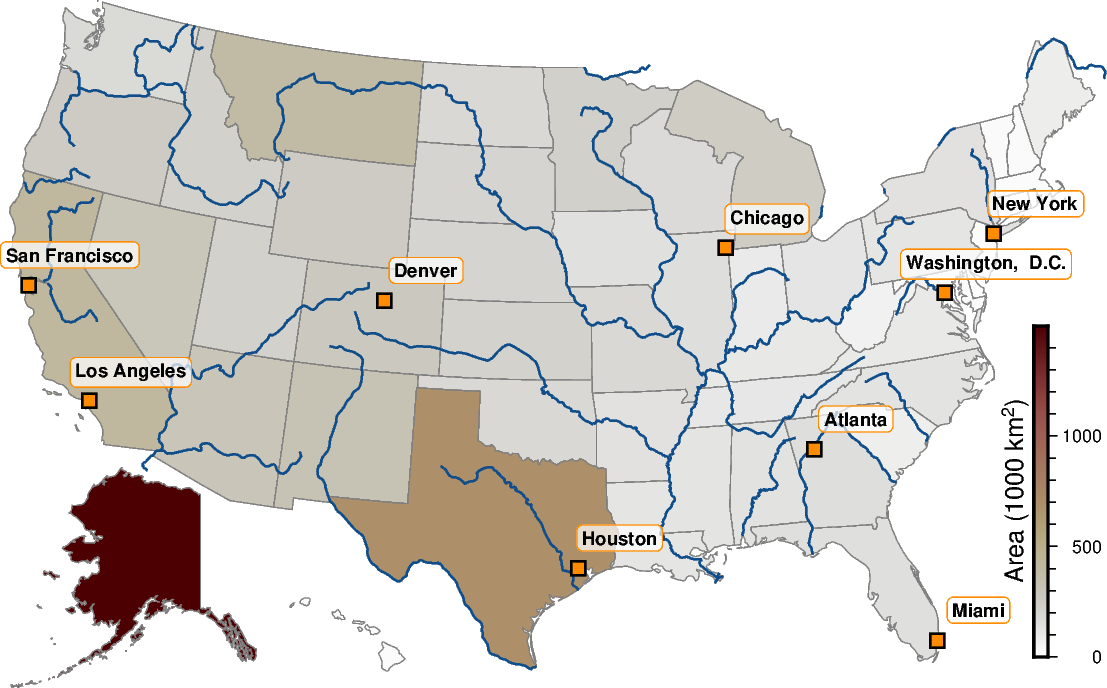
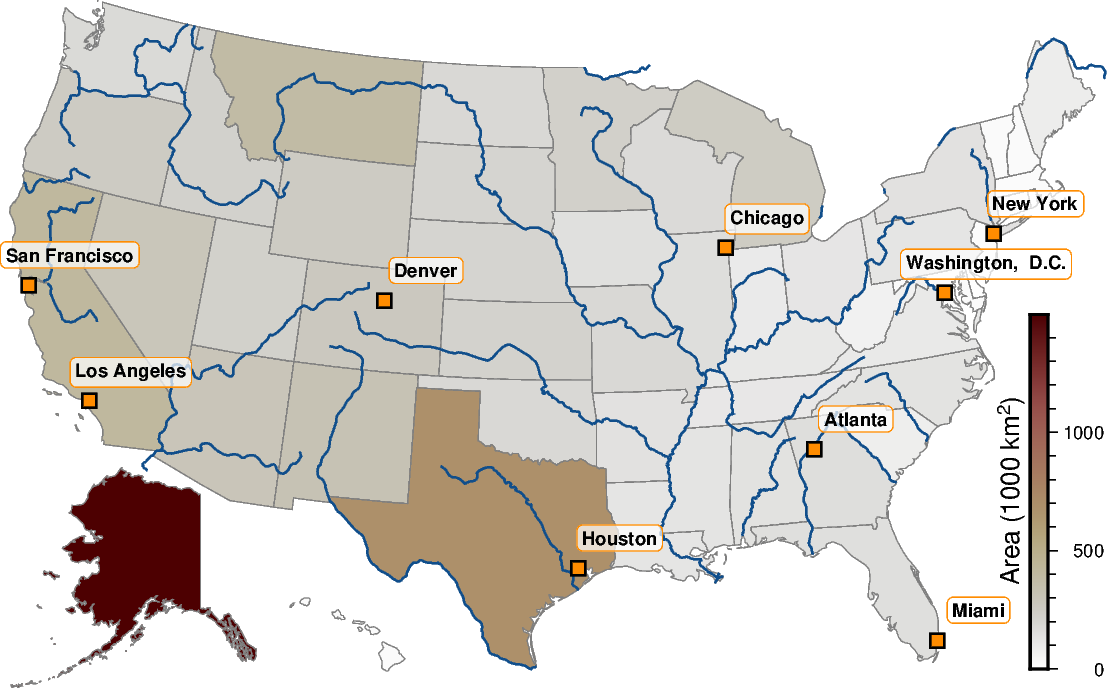
Adjust colorbar | Improve comment

Changed region(s): [[0.8907, 0.4578, 1.0, 0.9767], [0.9828, 0.9462, 1.0, 0.9767]]

diff --git a/Fig6_PyGMT_geopandas.py b/Fig6_PyGMT_geopandas.py
@@ -16,7 +16,7 @@ fig.basemap(projection="L-96/35/33/41/12c", region=[-126, -66, 25, 49], frame="+
 
 pygmt.makecpt(cmap="bilbao", series=[0, states["area_sqkm"].max()])
 fig.plot(data=states, cmap=True, pen="0.2p,gray50", fill="+z", aspatial="Z=area_sqkm")
-fig.colorbar(frame="xaf+lArea (1000 km@+2@+)", position="jRB+o1.9c/0.3c+w2.8c/0.12c+ml")
+fig.colorbar(frame="xaf+lArea (1000 km@+2@+)", position="jRB+o1.9c/0.2c+w3c/0.15c+ml")
 
 fig.plot(data=rivers, pen="0.5p,dodgerblue4")
 
@@ -33,7 +33,7 @@ fig.text(
     clearance="0.05c+tO",
 )
 
-# Add Alaska and Hawaii separately
+# Add Alaska and Hawaii separately in lower left corner
 for xshift, region in zip(["0.9c", "2.3c"], [[172, 230, 51, 72], [-168, -154, 18, 29]]):
     with fig.shift_origin(xshift=xshift):
         fig.plot(
